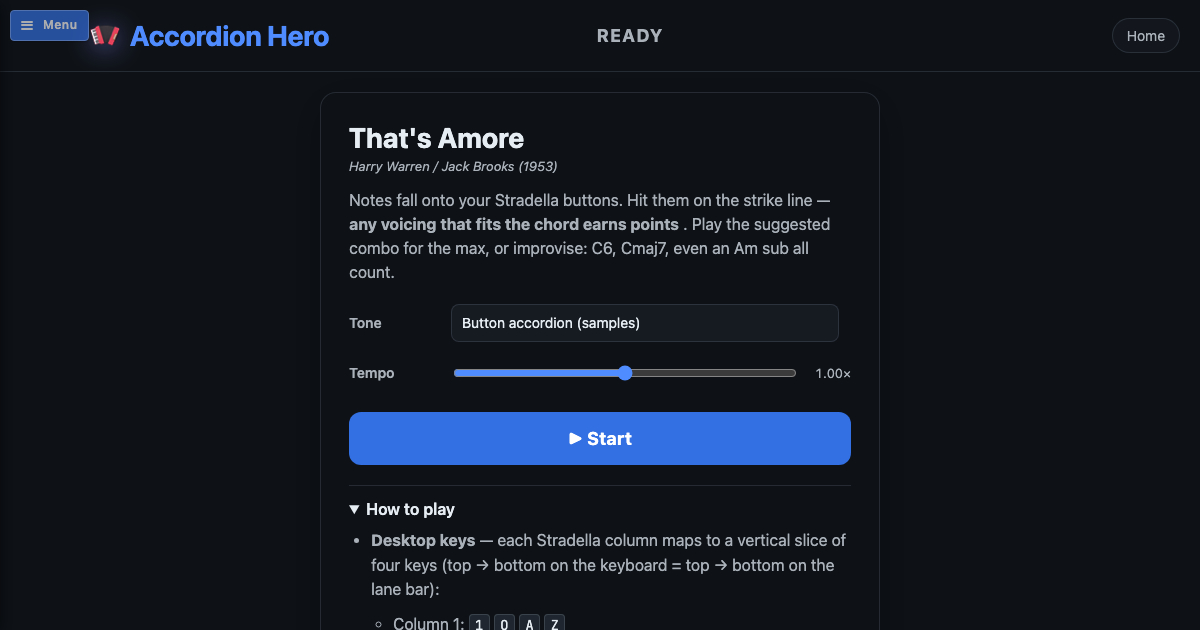
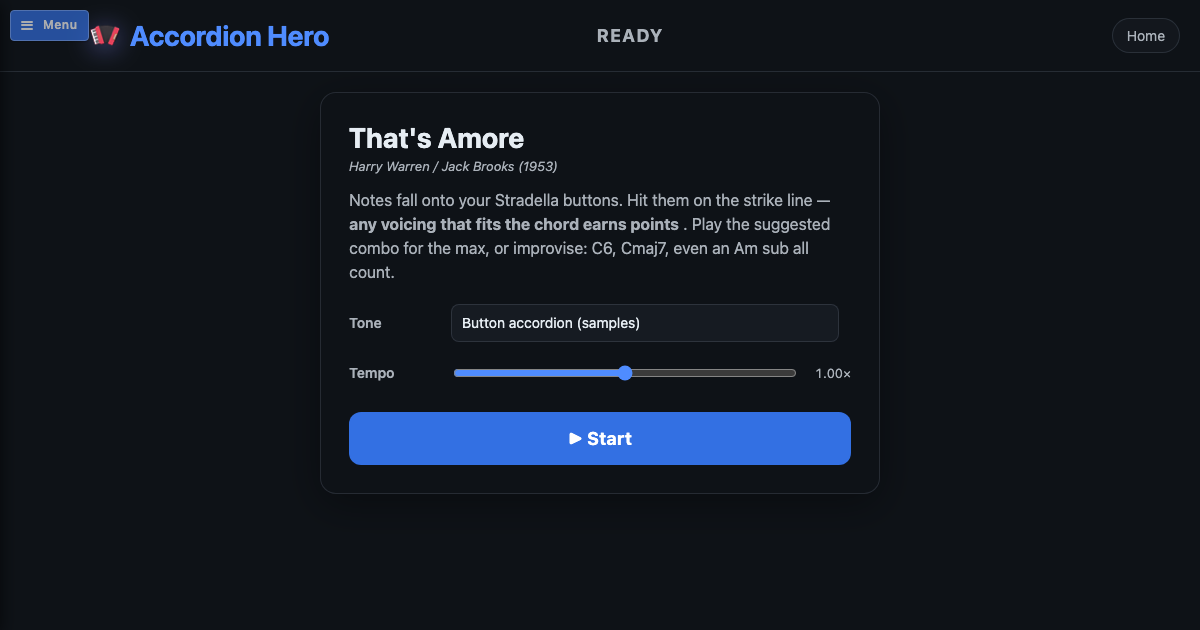
previews: fix blank or wrong OG shots for 2048, checkboxes, Bad Apple, Read, and emulators
The regenerated previews drifted from the pages they show. Fixes:

- checkboxes: the live poll repainted the bitmap over the preview heart.
  Freeze polling while the preview hook draws, and move the heart up so
  the whole shape fits the 630px crop.
- 2048: tile colors live on .tile-inner, which the preview seed did not
  create, so every tile looked the same. Build the inner node.
- Bad Apple: the preview wrote frame text into #frame-display, which
  removed the canvas. Seek to 8s (the woman with the apple) and paint
  through the canvas renderer.
- Read: book covers fall back from the Gutenberg host to Open Library,
  then to an emoji stand-in, instead of empty rectangles.
- Emulator cards: every console gets a titled placeholder when box art
  is missing, not only PSP.
- Instrument previews hide the How to play block so the playing surface
  fills the 630px crop.

Changed region(s): [[0.3083, 0.8444, 0.7092, 1.0], [0.2775, 0.754, 0.7092, 0.8143]]

diff --git a/generate-previews.js b/generate-previews.js
@@ -312,29 +312,31 @@ const PAGES = [
     url: `${BASE_URL}/badapple/`,
     output: 'badapple/badapple-preview.png',
     title: 'Bad Apple ASCII',
-    // Default capture shows the player chrome with no animation
-    // frame rendered. Seek paused to ~45s where the silhouette is
-    // clear and recognizable so the preview shows the actual art.
+    // Default capture is an empty player. Seek paused to ~8s, the shot
+    // of the woman holding the apple, and paint it through the canvas
+    // renderer. Writing the frame text into #frame-display would remove
+    // the canvas and show a blob of glyphs instead of the picture.
     setup: async (page) => {
       await page.evaluate(async () => {
-        const SEC = 45;
+        const SEC = 8;
         const FRAME_RATE = 30;
         const audio = /** @type {HTMLAudioElement | null} */ (document.getElementById('audio'));
         if (audio) {
           audio.pause();
-          audio.currentTime = SEC;
+          try {
+            audio.currentTime = SEC;
+          } catch {
+            // Metadata may still be loading; the painted frame is what matters.
+          }
         }
         const frameNum = Math.floor(SEC * FRAME_RATE) + 1;
-        try {
-          const res = await fetch(`frame/${frameNum}.html`);
-          const html = await res.text();
-          const m = html.match(/<pre>\s*([\s\S]*?)\s*<\/pre>/);
-          const target = document.getElementById('frame-display');
-          const text =
-            m && typeof decodeBadAppleFrame === 'function' ? decodeBadAppleFrame(m[1]) : m && m[1];
-          if (text && target) target.textContent = text;
-        } catch {
-          // network blip — leave the frame blank rather than crash
+        const pageWindow = /** @type {any} */ (window);
+        if (
+          typeof pageWindow.loadFrame === 'function' &&
+          typeof pageWindow.paintFrame === 'function'
+        ) {
+          const text = await pageWindow.loadFrame(frameNum);
+          if (text) pageWindow.paintFrame(text);
         }
         const duration = (audio && audio.duration) || 6572 / FRAME_RATE;
         const pct = (SEC / duration) * 100;
@@ -726,7 +728,27 @@ const PAGES = [
   {
     url: `${BASE_URL}/read/`,
     output: 'read/read-preview.png',
-    title: 'Read'
+    title: 'Read',
+    // Gutenberg cover hosts often 503. The page then asks Open Library.
+    // Wait until the first row has a real cover or has given up, so the
+    // shot is not a row of empty rectangles.
+    setup: async (page) => {
+      await page.waitForSelector('#featured-grid .book-card', { timeout: 15000 }).catch(() => {});
+      await page
+        .waitForFunction(
+          () => {
+            const covers = document.querySelectorAll('#featured-grid .book-cover');
+            if (covers.length < 4) return false;
+            return [...covers].slice(0, 5).every((cover) => {
+              const img = cover.querySelector('img');
+              if (img instanceof HTMLImageElement) return img.complete && img.naturalWidth > 0;
+              return !!cover.querySelector('.book-cover-placeholder');
+            });
+          },
+          { timeout: 20000 }
+        )
+        .catch(() => {});
+    }
   },
   {
     url: `${BASE_URL}/chat/`,
@@ -1024,10 +1046,15 @@ const PAGES = [
             el.className = 'tile';
             el.dataset.id = String(id++);
             el.dataset.value = String(v);
-            el.textContent = String(v);
+            // Color lives on .tile-inner. A number painted on .tile itself
+            // sits on the empty-cell background and every value looks the same.
+            const inner = document.createElement('div');
+            inner.className = 'tile-inner';
+            inner.textContent = String(v);
+            el.appendChild(inner);
             const x = `calc((var(--cell-size) + var(--gap)) * ${c})`;
             const y = `calc((var(--cell-size) + var(--gap)) * ${r})`;
-            el.style.transform = `translate(${x}, ${y})`;
+            el.style.transform = `translate3d(${x}, ${y}, 0)`;
             tiles.appendChild(el);
           }
         }
@@ -1158,9 +1185,13 @@ const PAGES = [
       await page.waitForTimeout(300);
       await page.evaluate(() => {
         const w = /** @type {any} */ (window);
+        // Freeze the live poll first. It would otherwise replace this
+        // drawing with the shared million-box bitmap before the shot.
+        w.cbPreviewHold = true;
         const state = /** @type {Uint8Array | undefined} */ (w.cbState);
         const repaint = /** @type {(() => void) | undefined} */ (w.cbPaintAll);
         if (!state || !repaint) return;
+        state.fill(0);
 
         // Reverse-engineer COLS from the grid container's inline width
         // (set in index.js as `COLS * PITCH` px, with PITCH=35).
@@ -1211,7 +1242,7 @@ const PAGES = [
         const HW = 32;
         const HH = heart.length;
         if (COLS >= HW) {
-          const startRow = 5;
+          const startRow = 1;
           const startCol = Math.floor((COLS - HW) / 2);
           for (let r = 0; r < HH; r++) {
             for (let c = 0; c < HW; c++) {
@@ -1474,6 +1505,20 @@ async function takeScreenshot(page, pageConfig) {
         console.warn(`   ⚠  setup hook for ${pageConfig.title} threw: ${err.message}`);
       }
     }
+
+    // The 630px-tall shot is a short window. On that height the how-to
+    // sits in the crop and, on the theremin, the pad collapses to nothing
+    // so the instructions are the whole picture. Hide the essay and give
+    // the playing surface the viewport.
+    await page.addStyleTag({
+      content: [
+        '.instrument-help, .ah-help { display: none !important; }',
+        '.instrument-body { height: 100vh !important; overflow: hidden !important; }',
+        '.theremin-stage { flex: 1 1 auto !important; min-height: 280px !important; }',
+        '.theremin-pad { min-height: 280px !important; height: 100% !important; }'
+      ].join('\n')
+    });
+    await page.waitForTimeout(150);
 
     // Ensure output directory exists
     await ensureDirectoryExists(pageConfig.output);

diff --git a/read/app.js b/read/app.js
@@ -164,6 +164,91 @@ function getCoverUrl(book) {
   );
 }
 
+function coverPlaceholder(emoji) {
+  const el = document.createElement('div');
+  el.className = 'book-cover-placeholder';
+  el.textContent = emoji;
+  return el;
+}
+
+/** @type {Map<string, Promise<string|null>>} */
+const openLibraryCovers = new Map();
+
+function openLibraryCover(title, author) {
+  const key = `${title}\n${author}`;
+  const cached = openLibraryCovers.get(key);
+  if (cached) return cached;
+  const pending = fetchOpenLibraryCover(title, author);
+  openLibraryCovers.set(key, pending);
+  return pending;
+}
+
+async function fetchOpenLibraryCover(title, author) {
+  const params = new URLSearchParams({
+    title: title || '',
+    fields: 'cover_i',
+    limit: '1'
+  });
+  if (author && author !== 'Unknown') params.set('author', author);
+  try {
+    const res = await fetch(`https://openlibrary.org/search.json?${params}`);
+    if (!res.ok) return null;
+    const data = await res.json();
+    const docs = data && Array.isArray(data.docs) ? data.docs : [];
+    const first = docs[0];
+    const id = first && typeof first === 'object' ? first.cover_i : null;
+    return typeof id === 'number' ? `https://covers.openlibrary.org/b/id/${id}-L.jpg` : null;
+  } catch {
+    return null;
+  }
+}
+
+/**
+ * Gutenberg's cover host 503s often enough that a card would otherwise
+ * be an empty rectangle. Try that URL first, then Open Library, then
+ * the emoji stand-in.
+ * @param {HTMLElement} parent
+ * @param {string|null} url
+ * @param {string} fallback
+ * @param {() => Promise<string|null>} lookup
+ */
+function mountCover(parent, url, fallback, lookup) {
+  parent.replaceChildren();
+  if (!url) {
+    parent.appendChild(coverPlaceholder(fallback));
+    return;
+  }
+  const img = document.createElement('img');
+  img.alt = '';
+  img.decoding = 'async';
+  img.addEventListener('error', () => {
+    onCoverError(img, fallback, lookup);
+  });
+  img.src = url;
+  parent.appendChild(img);
+}
+
+async function onCoverError(img, fallback, lookup) {
+  if (!img.isConnected) return;
+  if (img.dataset.triedFallback === '1') {
+    img.replaceWith(coverPlaceholder(fallback));
+    return;
+  }
+  img.dataset.triedFallback = '1';
+  let next = null;
+  try {
+    next = await lookup();
+  } catch {
+    next = null;
+  }
+  if (!img.isConnected) return;
+  if (next && next !== img.src) {
+    img.src = next;
+    return;
+  }
+  img.replaceWith(coverPlaceholder(fallback));
+}
+
 function showToast(msg, type = 'info') {
   const el = document.createElement('div');
   el.className = `toast toast-${type}`;
@@ -184,19 +269,17 @@ function createBookCard(book) {
   const lang = book.languages?.join(', ') || '';
 
   card.innerHTML = `
-    <div class="book-cover" aria-hidden="true">
-      ${
-        cover
-          ? `<img src="${cover}" alt="" loading="lazy" onerror="this.style.display='none'">`
-          : `<div class="book-cover-placeholder">📚</div>`
-      }
-    </div>
+    <div class="book-cover" aria-hidden="true"></div>
     <div class="book-info">
       <p class="book-title">${escapeHtml(book.title)}</p>
       <p class="book-author">${escapeHtml(author)}</p>
       ${lang ? `<p class="book-meta">${escapeHtml(lang.toUpperCase())}</p>` : ''}
     </div>
   `;
+  const coverEl = card.querySelector('.book-cover');
+  if (coverEl instanceof HTMLElement) {
+    mountCover(coverEl, cover, '📚', () => openLibraryCover(book.title || '', author));
+  }
 
   card.addEventListener('click', () => openBook(book));
 
@@ -268,19 +351,20 @@ function renderShelf() {
     card.setAttribute('aria-keyshortcuts', 'Delete Backspace');
 
     card.innerHTML = `
-      <div class="book-cover" aria-hidden="true">
-        ${
-          entry.coverUrl
-            ? `<img src="${entry.coverUrl}" alt="" loading="lazy" onerror="this.style.display='none'">`
-            : `<div class="book-cover-placeholder">${entry.local ? '📄' : '📚'}</div>`
-        }
-      </div>
+      <div class="book-cover" aria-hidden="true"></div>
       <div class="book-info">
         <p class="book-title">${escapeHtml(entry.title)}</p>
         <p class="book-author">${escapeHtml(entry.author)}</p>
         <p class="book-meta">Resume reading</p>
       </div>
     `;
+    const shelfCover = card.querySelector('.book-cover');
+    if (shelfCover instanceof HTMLElement) {
+      const emoji = entry.local ? '📄' : '📚';
+      mountCover(shelfCover, entry.coverUrl || null, emoji, () =>
+        entry.local ? Promise.resolve(null) : openLibraryCover(entry.title, entry.author)
+      );
+    }
 
     const remove = document.createElement('button');
     remove.type = 'button';

diff --git a/checkboxes/index.js b/checkboxes/index.js
@@ -1405,6 +1405,9 @@ const SNAPSHOT_REFRESH_MS = 60000;
 let connStatus = 'init';
 
 async function poll() {
+  // The OG-preview hook freezes the bitmap on a drawn heart. A poll
+  // that is already in flight must not paint the live snapshot over it.
+  if (window.cbPreviewHold) return;
   if (polling) return;
   polling = true;
   connStatus = 'syncing';
@@ -1418,6 +1421,7 @@ async function poll() {
     const deltaPromise = fetchTab(CONFIG.responsesTab);
     const snapPromise = wantSnapshot ? fetchTab(CONFIG.snapshotTab) : Promise.resolve(null);
     const [delta, snapRows] = await Promise.all([deltaPromise, snapPromise]);
+    if (window.cbPreviewHold) return;
     if (wantSnapshot) {
       applySnapshot(snapRows || []);
       lastSnapshotFetchAt = now;
@@ -1433,7 +1437,7 @@ async function poll() {
     console.warn('[checkboxes] poll failed', err);
   } finally {
     polling = false;
-    updateStatus();
+    if (!window.cbPreviewHold) updateStatus();
   }
 }
 

diff --git a/emulator/rom-browser.js b/emulator/rom-browser.js
@@ -1086,14 +1086,14 @@ class RomBrowserElement extends HTMLElement {
       frame.className = 'rom-art-frame';
       const art = this._romArt(rom, saved && saved.shot);
       if (art) frame.appendChild(art);
-      if (this.consoleConfig && this.consoleConfig.artPlaceholder) {
-        const placeholder = this._artPlaceholder(parts.name || fullTitle);
-        frame.appendChild(placeholder);
-        if (art) {
-          art.addEventListener('load', () => {
-            placeholder.hidden = true;
-          });
-        }
+      // Every console gets a stand-in. Box art hides it once a URL loads;
+      // a miss (BIOS dumps, 404s) keeps the title on the card.
+      const placeholder = this._artPlaceholder(parts.name || fullTitle);
+      frame.appendChild(placeholder);
+      if (art) {
+        art.addEventListener('load', () => {
+          placeholder.hidden = true;
+        });
       }
       romCard.prepend(frame);
       if (saved) {

diff --git a/badapple/index.html b/badapple/index.html
@@ -1161,6 +1161,11 @@
       // Initialize time display
       audio.addEventListener('loadedmetadata', updateProgress);
       updateProgress();
+
+      // The preview generator seeks to a frame and paints it. These stay
+      // off the page's own controls.
+      window.loadFrame = loadFrame;
+      window.paintFrame = paintFrame;
     </script>
 
     <!-- SEO content footer. Marked .seo-intro + hidden so it stays in the
